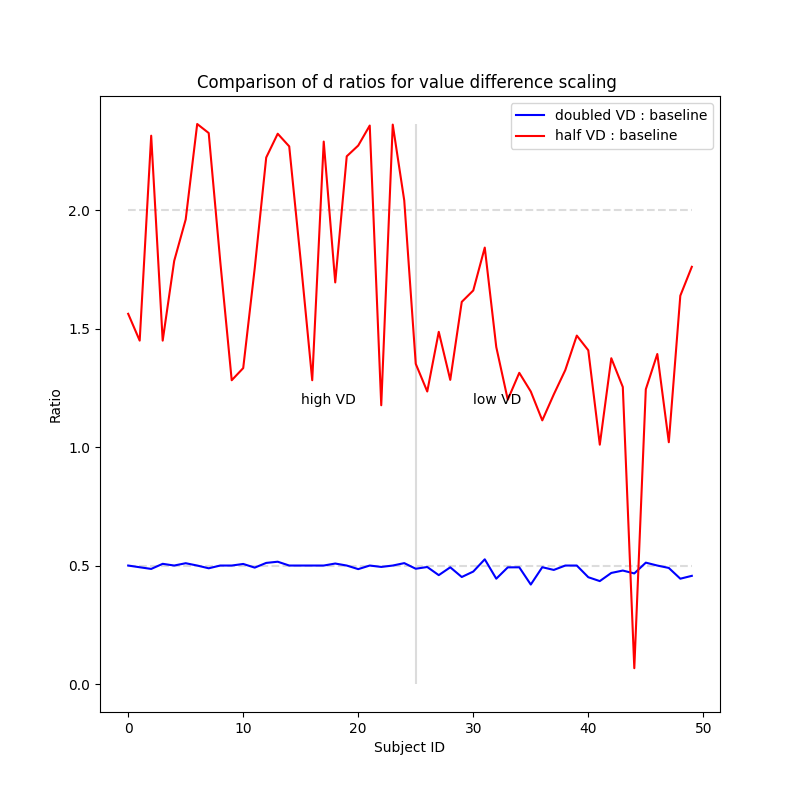
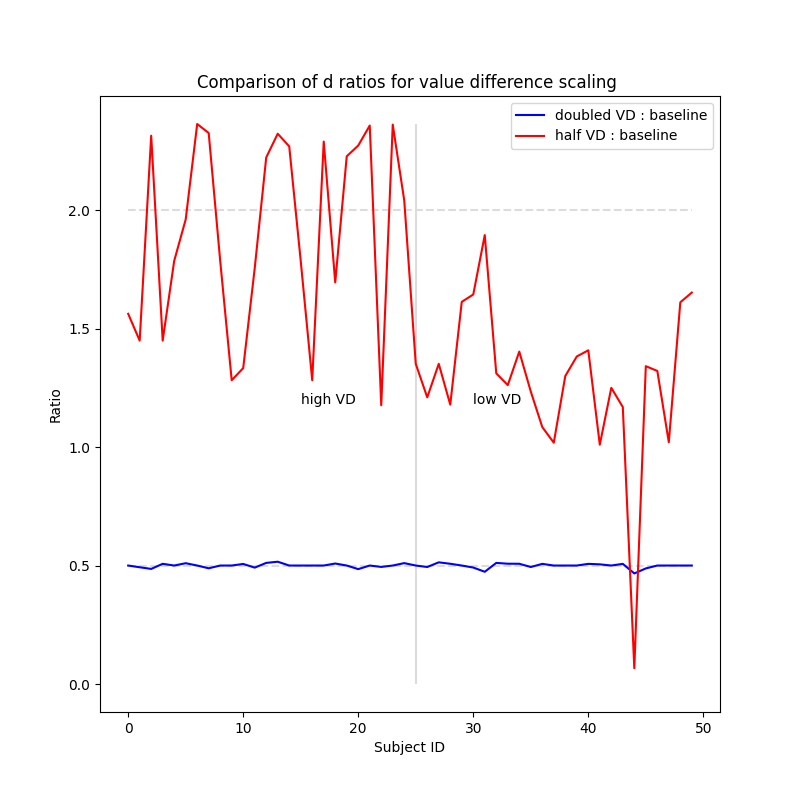
Once again, fix best fit binary

diff --git a/Da_data/param_scatter.py b/Da_data/param_scatter.py
@@ -39,15 +39,17 @@ x = np.linspace(0, np.max(bases), 100)
 plt.plot(x, 2 * x, color="darkgrey", zorder=0, label="y=2x", lw=3)
 plt.plot(x, x / 2, color="darkgrey", zorder=1, label="y=x/2", lw=3)
 
-zh = np.polyfit(bases[:m], hlvs[:m], 1)
-ph = np.poly1d(zh)
-if (abs(2 - ph.coef[0]) > BEST_FIT_MARGIN):
-    plt.plot(x, ph(x), color="gainsboro", label=f"y≈{round(ph.coef[0], 2)}x")
+b1 = bases[:m]
+h1 = hlvs[:m]
+b1 = b1[: ,np.newaxis]
+a1, _, _, _ = np.linalg.lstsq(b1, h1, rcond=None)
+plt.plot(x, a1[0]*x, color="gainsboro", label=f"y={round(a1[0], 2)}x")
 
-zl = np.polyfit(bases[m:], hlvs[m:], 1)
-pl = np.poly1d(zl)
-if (abs(2 - pl.coef[0]) > BEST_FIT_MARGIN): 
-    plt.plot(x, pl(x), color="gainsboro", label=f"y≈{round(pl.coef[0], 2)}x")
+b2 = bases[m:]
+h2 = hlvs[m:]
+b2 = b2[: ,np.newaxis]
+a2, _, _, _ = np.linalg.lstsq(b2, h2, rcond=None)
+plt.plot(x, a2[0]*x, color="gainsboro", label=f"y={round(a2[0], 2)}x")
 
 lines = plt.gca().get_lines()
 labelLines(lines, align=True, xvals=[labelPos] * len(lines), drop_label=True, color='k')

diff --git a/Da_data/run_best_fit.cpp b/Da_data/run_best_fit.cpp
@@ -62,7 +62,7 @@ int main() {
 
     std::vector<float>optimal_s = {}; 
     std::vector<float>optimal_theta = {}; 
-    std::vector<float> range_d = generateRange(0.0001f, 0.01f, 0.0001f);
+    std::vector<float> range_d = generateRange(0.0001f, 0.025f, 0.0001f);
 
     for (size_t i = 0; i < dataPairs.size(); i += 2) {
         std::vector<float> range_theta = generateRange(0.0f, 1.0f, 0.05f);
@@ -150,8 +150,6 @@ int main() {
         std::string outputFileName = "/central/groups/rnl/jgoldman/out/output2_" + prefix + ".csv";
         saveToCSV(outputFileName, outputData);
     }
-
-
 
     return 0;
 }
